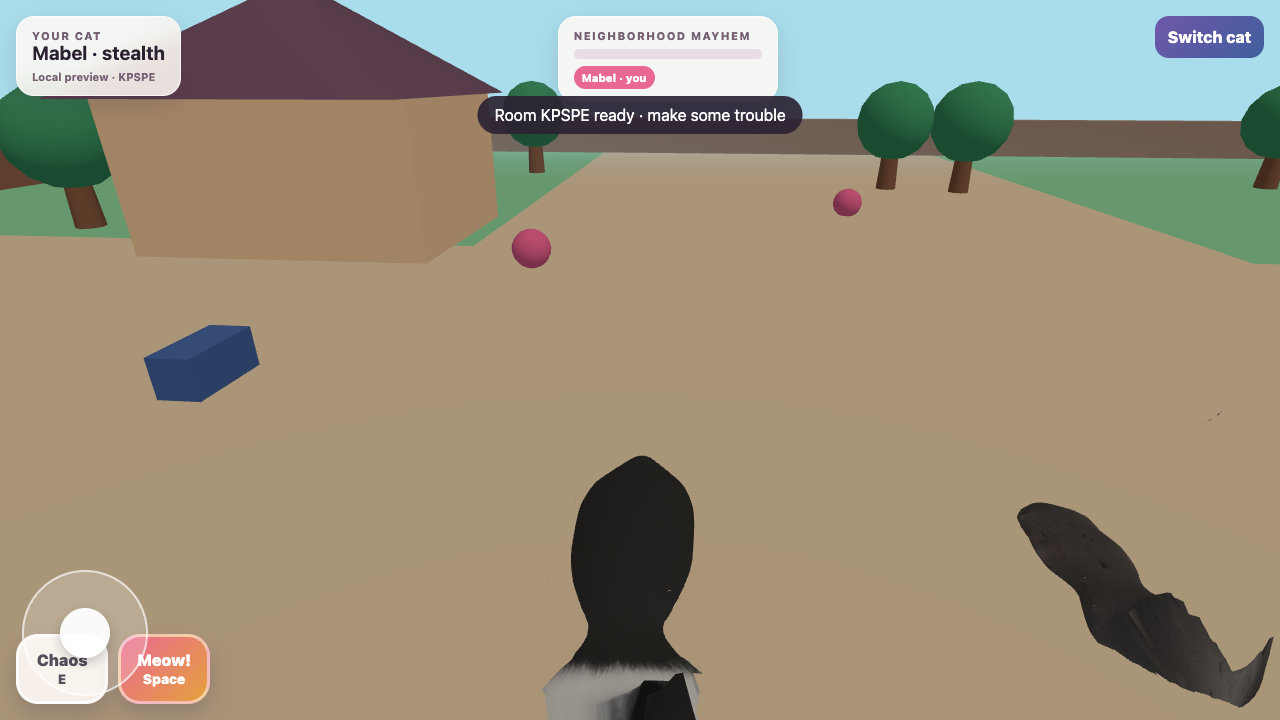
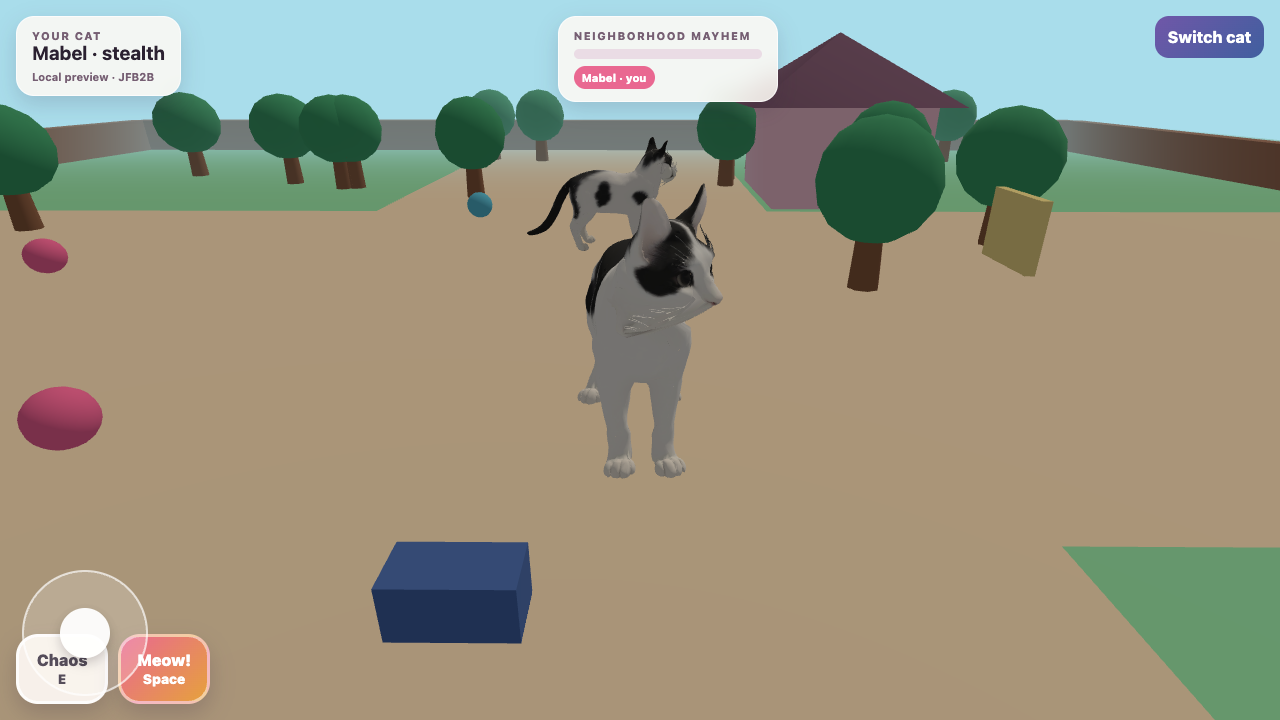
up

diff --git a/index.html b/index.html
@@ -46,20 +46,23 @@ const START_WORLD={yarn:{yarn_0:{x:-7,z:-5},yarn_1:{x:8,z:-3},yarn_2:{x:12,z:8},
 const ui={lobby:document.getElementById('lobby-screen'),loading:document.getElementById('loading-screen'),label:document.getElementById('loading-label'),note:document.getElementById('setup-note'),error:document.getElementById('lobby-error'),room:document.getElementById('room-code-input'),hud:document.getElementById('hud'),cat:document.getElementById('cat-name'),connection:document.getElementById('connection-badge'),players:document.getElementById('player-list'),meter:document.getElementById('mayhem-meter'),switch:document.getElementById('switch-cat-btn'),interact:document.getElementById('interact-btn'),meow:document.getElementById('meow-btn'),zone:document.getElementById('joystick-zone'),knob:document.getElementById('joystick-knob'),message:document.getElementById('message-box')};
 const canvas=document.getElementById('game-canvas'),renderer=new THREE.WebGLRenderer({canvas,antialias:true}),scene=new THREE.Scene(),camera=new THREE.PerspectiveCamera(58,1,.1,100),loader=new GLTFLoader();
 renderer.setPixelRatio(Math.min(devicePixelRatio||1,2));renderer.shadowMap.enabled=true;renderer.shadowMap.type=THREE.PCFSoftShadowMap;scene.background=new THREE.Color(0xa9ddeb);scene.fog=new THREE.Fog(0xa9ddeb,24,64);
-let sourceMesh=null,sourceClips=[],animationReady=false,animationVerification={total:0,cats:{}},currentTargetMesh=null,firebaseApi=null,roomRef=null,roomUnsubscribe=null,eventUnsubscribe=null,messageTimer=null,gameTime=0,lastFrameTime=performance.now(),isMeowing=false,isInteracting=false,isDragging=false;
+let sourceMesh=null,sourceClips=[],animationReady=false,animationVerification={total:0,cats:{}},firebaseApi=null,roomRef=null,roomUnsubscribe=null,eventUnsubscribe=null,messageTimer=null,gameTime=0,lastFrameTime=performance.now(),isMeowing=false,isInteracting=false,isDragging=false;
 const cats={},collectibles={},collecting=new Set(),worldMeshes={},keys={up:false,down:false,left:false,right:false},joy={x:0,y:0};
 const state={mode:'lobby',started:false,connection:'local',roomCode:'',playerId:'',currentCatId:'mabel',players:{},world:JSON.parse(JSON.stringify(START_WORLD)),mayhem:0,lastPublishedAt:0,seenEvents:new Set(),local:{x:-4,z:2,rotation:0,moving:false,action:'idle'}};
 const copyWorld=()=>JSON.parse(JSON.stringify(START_WORLD));
 const roomCode=()=>Array.from({length:5},()=> 'ABCDEFGHJKLMNPQRSTUVWXYZ23456789'[Math.floor(Math.random()*30)]).join('');
 const findMesh=root=>{let result=null;root.traverse(n=>{if(!result&&n.isSkinnedMesh)result=n});return result};
-const findBone=(mesh,name)=>mesh?.skeleton?.bones.find(b=>b.name===name)||null;
+const findBone=(mesh,name)=>mesh?.skeleton?.bones.find(b=>b.name===name)||mesh?.skeleton?.bones.find(b=>b.name.replace(/\./g,'')===name.replace(/\./g,''))||null;
 const sourceHas=name=>Boolean(sourceMesh?.skeleton?.bones.some(b=>b.name===name));
 const angleDiff=(a,b)=>{let d=b-a;while(d<-Math.PI)d+=Math.PI*2;while(d>Math.PI)d-=Math.PI*2;return d};
 function chain(mesh,start,allowed){const root=findBone(mesh,start),result=[];let current=root;while(current){result.push(current);current=(current.children||[]).find(n=>n.isBone&&allowed(n.name))||null}return result}
-function addMap(map,target,source){if(findBone(currentTargetMesh,target)&&sourceHas(source))map[target]=source}
-function retargetMap(mesh){currentTargetMesh=mesh;const map={};const targetSpine=chain(mesh,'spine',n=>/^spine(?:\\.\\d+)?$/.test(n));const sourceSpine=['RigSpine1_010','RigSpine2_011','RigSpine3_012','RigChest_013','RigNeck1_00','RigNeck2_014','RigNeck3_015','RigNeck4_016','RigHead_017'];targetSpine.slice(1).forEach((b,i)=>addMap(map,b.name,sourceSpine[Math.min(sourceSpine.length-1,Math.floor(i*sourceSpine.length/Math.max(1,targetSpine.length-1)))]));[['L',['shoulder.L','upper_arm.L','forearm.L','hand.L','f_toe.L'],['RigLFLegCollarbone_033','RigLFLeg1_034','RigLFLeg2_035','RigLFLeg3_036','RigLFLegAnkle_037']],['R',['shoulder.R','upper_arm.R','forearm.R','hand.R','f_toe.R'],['RigRFLegCollarbone_047','RigRFLeg1_048','RigRFLeg2_049','RigRFLeg3_050','RigRFLegAnkle_051']],['L',['pelvis.L','thigh.L','shin.L','foot.L','r_toe.L'],['RigLBLeg1_02','RigLBLeg2_03','RigLBLeg3_04','RigLBLegAnkle_05','RigLBLegDigit11_06']],['R',['pelvis.R','thigh.R','shin.R','foot.R','r_toe.R'],['RigRBLeg1_068','RigRBLeg2_069','RigRBLeg3_070','RigRBLegAnkle_071','RigRBLegDigit11_072']]].forEach(([,targets,sources])=>targets.forEach((t,i)=>addMap(map,t,sources[i])));addMap(map,'face','RigHead_017');addMap(map,'face.001','RigHead_017');addMap(map,'jaw','RigJaw1_018');addMap(map,'jaw_master','RigJaw1_018');addMap(map,'ear.L','RigLEar1_023');addMap(map,'ear.R','RigREar1_024');const tail=chain(mesh,'tail.001',n=>/^tail(?:\\.\\d+)?$/.test(n)),sourceTail=['RigTail1_063','RigTail2_064','RigTail3_065','RigTail4_066','RigTail5_067'];tail.forEach((b,i)=>addMap(map,b.name,sourceTail[Math.min(sourceTail.length-1,Math.floor(i*sourceTail.length/Math.max(1,tail.length)))]));currentTargetMesh=null;return map}
-function playAnimation(id,name,force=false){const cat=cats[id];if(!cat?.actions?.[name])return;if(!force&&cat.active===name&&(!ONE_SHOTS.has(name)||gameTime<cat.oneShotUntil))return;const next=cat.actions[name],old=cat.actions[cat.active];if(old&&old!==next)old.fadeOut(.18);next.reset().setEffectiveTimeScale(1).setEffectiveWeight(1).fadeIn(.18).play();cat.active=name;if(id===state.currentCatId)state.local.action=name;if(ONE_SHOTS.has(name))cat.oneShotUntil=gameTime+Math.max(.65,next.getClip().duration)}
-function configureAnimations(cat,mesh){const map=retargetMap(mesh),mixer=new THREE.AnimationMixer(cat.root),actions={};let count=0;Object.entries(CLIPS).forEach(([key,sourceName])=>{const clip=sourceClips.find(c=>c.name===sourceName);if(!clip)return;try{const converted=SkeletonUtils.retargetClip(mesh,sourceMesh,clip,{names:map,hip:'__no_position__',fps:30,preservePosition:true});converted.tracks=converted.tracks.filter(track=>!track.name.endsWith('.position'));converted.tracks.forEach(track=>{if(track.name.startsWith('.'))track.name=mesh.uuid+track.name});converted.name=key;const action=mixer.clipAction(converted);if(ONE_SHOTS.has(key)){action.setLoop(THREE.LoopOnce,1);action.clampWhenFinished=true}actions[key]=action;count++}catch(error){console.warn('Retarget failed',cat.id,key,error)}});mesh.skeleton.pose();mesh.updateMatrixWorld(true);cat.mixer=mixer;cat.actions=actions;cat.active='';cat.oneShotUntil=0;animationVerification.cats[cat.id]=count;animationVerification.total+=count;playAnimation(cat.id,'idle',true)}
+function addMap(map,mesh,target,source){const bone=findBone(mesh,target);if(bone&&sourceHas(source))map[bone.name]=source}
+function retargetMap(mesh){const map={};if(!mesh||!sourceMesh)return map;const targetSpine=chain(mesh,'spine',n=>/^spine(?:\.?\d+)?$/.test(n));const sourceSpine=['RigSpine1_010','RigSpine2_011','RigSpine3_012','RigChest_013','RigNeck1_00','RigNeck2_014','RigNeck3_015','RigNeck4_016','RigHead_017'];targetSpine.slice(1).forEach((b,i)=>addMap(map,mesh,b.name,sourceSpine[Math.min(sourceSpine.length-1,Math.floor(i*sourceSpine.length/Math.max(1,targetSpine.length-1)))]));[['L',['shoulder.L','upper_arm.L','forearm.L','hand.L','f_toe.L'],['RigLFLegCollarbone_033','RigLFLeg1_034','RigLFLeg2_035','RigLFLeg3_036','RigLFLegAnkle_037']],['R',['shoulder.R','upper_arm.R','forearm.R','hand.R','f_toe.R'],['RigRFLegCollarbone_047','RigRFLeg1_048','RigRFLeg2_049','RigRFLeg3_050','RigRFLegAnkle_051']],['L',['pelvis.L','thigh.L','shin.L','foot.L','r_toe.L'],['RigLBLeg1_02','RigLBLeg2_03','RigLBLeg3_04','RigLBLegAnkle_05','RigLBLegDigit11_06']],['R',['pelvis.R','thigh.R','shin.R','foot.R','r_toe.R'],['RigRBLeg1_068','RigRBLeg2_069','RigRBLeg3_070','RigRBLegAnkle_071','RigRBLegDigit11_072']]].forEach(([,targets,sources])=>targets.forEach((t,i)=>addMap(map,mesh,t,sources[i])));addMap(map,mesh,'face','RigHead_017');addMap(map,mesh,'face.001','RigHead_017');addMap(map,mesh,'jaw','RigJaw1_018');addMap(map,mesh,'jaw_master','RigJaw1_018');addMap(map,mesh,'ear.L','RigLEar1_023');addMap(map,mesh,'ear.R','RigREar1_024');const tail=chain(mesh,'tail.001',n=>/^tail(?:\.?\d+)?$/.test(n)),sourceTail=['RigTail1_063','RigTail2_064','RigTail3_065','RigTail4_066','RigTail5_067'];tail.forEach((b,i)=>addMap(map,mesh,b.name,sourceTail[Math.min(sourceTail.length-1,Math.floor(i*sourceTail.length/Math.max(1,tail.length)))]));return map}
+function normalizeTrack(track,targetBones){const match=track.name.match(/bones\[([^\]]+)\]\.(.+)$/);if(!match||!targetBones.has(match[1]))return null;track.name='.bones['+match[1]+'].'+match[2];return track}
+function fallbackKey(name){const value=name.toLowerCase();if(value.includes('idle'))return'idle';if(value.includes('walk'))return'walk';if(value.includes('run'))return'run';if(value.includes('jump'))return'jump';return null}
+function prepareSourceClip(clip){if(!sourceMesh?.skeleton)return null;const boneNames=new Set(sourceMesh.skeleton.bones.map(b=>b.name)),prepared=clip.clone();prepared.tracks=prepared.tracks.filter(track=>{const path=track.name.slice(0,track.name.lastIndexOf('.'));return boneNames.has(path)});return prepared.tracks.length?prepared:null}
+function playAnimation(id,name,force=false){const cat=cats[id];if(!cat)return;const next=cat.actions?.[name]||cat.fallbackActions?.[name]||cat.fallbackAction;if(!next)return;if(!force&&cat.active===name&&(!ONE_SHOTS.has(name)||gameTime<cat.oneShotUntil))return;const old=cat.activeAction;if(old&&old!==next)old.fadeOut(.18);next.reset().setEffectiveTimeScale(1).setEffectiveWeight(1).fadeIn(.18).play();cat.active=name;cat.activeAction=next;cat.activeSource=cat.actions?.[name]?'shared':'fallback';if(id===state.currentCatId)state.local.action=name;if(ONE_SHOTS.has(name))cat.oneShotUntil=gameTime+Math.max(.65,next.getClip().duration)}
+function configureAnimations(cat,mesh,localClips=[]){const actions={},fallbackActions={};let count=0;cat.mixer=mesh?new THREE.AnimationMixer(mesh):null;cat.fallbackMixer=localClips.length?new THREE.AnimationMixer(cat.root):null;localClips.forEach(clip=>{if(!cat.fallbackMixer)return;const action=cat.fallbackMixer.clipAction(clip),key=fallbackKey(clip.name);if(key&&!fallbackActions[key])fallbackActions[key]=action;if(!cat.fallbackAction)cat.fallbackAction=action});const map=retargetMap(mesh),targetBones=new Set(mesh?.skeleton?.bones.map(b=>b.name)||[]);const required=['spine','shoulder.L','shoulder.R','thigh.L','thigh.R'];const rigCompatible=required.filter(name=>findBone(mesh,name)).length>=4&&Object.keys(map).length>=8;cat.mappedBones=Object.keys(map).length;cat.rigCompatible=rigCompatible;if(cat.mixer&&rigCompatible){Object.entries(CLIPS).forEach(([key,sourceName])=>{const clip=sourceClips.find(c=>c.name===sourceName),sourceClip=clip&&prepareSourceClip(clip);if(!sourceClip)return;try{const converted=SkeletonUtils.retargetClip(mesh,sourceMesh,sourceClip,{names:map,hip:'__no_position__',fps:30,preservePosition:true});converted.tracks=converted.tracks.map(track=>normalizeTrack(track,targetBones)).filter(Boolean).filter(track=>track.name!=='.bones[spine].position');if(converted.tracks.length<4)return;converted.name=key;const action=cat.mixer.clipAction(converted);if(ONE_SHOTS.has(key)){action.setLoop(THREE.LoopOnce,1);action.clampWhenFinished=true}actions[key]=action;count++}catch(error){console.warn('Retarget skipped',cat.id,key,error)}})}cat.actions=actions;cat.fallbackActions=fallbackActions;cat.active='';cat.activeAction=null;cat.activeSource=cat.actions.idle?'shared':cat.fallbackAction?'fallback':'static';cat.oneShotUntil=0;animationVerification.cats[cat.id]=count;animationVerification.total+=count;playAnimation(cat.id,'idle',true)}
 function createEnvironment(){scene.add(new THREE.AmbientLight(0xffffff,.68));const sun=new THREE.DirectionalLight(0xfff6e7,1.05);sun.position.set(8,18,9);sun.castShadow=true;sun.shadow.mapSize.set(1024,1024);scene.add(sun);const floor=new THREE.Mesh(new THREE.PlaneGeometry(100,100),new THREE.MeshStandardMaterial({color:0x8bd29d,roughness:1}));floor.rotation.x=-Math.PI/2;floor.receiveShadow=true;scene.add(floor);const path=new THREE.Mesh(new THREE.PlaneGeometry(18,100),new THREE.MeshStandardMaterial({color:0xe7cfae}));path.rotation.x=-Math.PI/2;path.position.y=.006;scene.add(path);const cross=new THREE.Mesh(new THREE.PlaneGeometry(100,14),new THREE.MeshStandardMaterial({color:0xe7cfae}));cross.rotation.x=-Math.PI/2;cross.position.y=.007;scene.add(cross);const fenceMat=new THREE.MeshStandardMaterial({color:0x9a6a52});[[0,-30,60,1],[0,30,60,1],[-30,0,1,60],[30,0,1,60]].forEach(([x,z,sx,sz])=>{const f=new THREE.Mesh(new THREE.BoxGeometry(sx,1.8,sz),fenceMat);f.position.set(x,.9,z);f.castShadow=true;scene.add(f)});const random=n=>{const v=Math.sin(n*91.17)*43758.5453;return v-Math.floor(v)};for(let i=0;i<24;i++)createTree((random(i+2)-.5)*50,(random(i+40)-.5)*50);createHouse(-13,-8,0xffd5a7);createHouse(13,10,0xf7c6d7);createHouse(-14,13,0xb9d9f2);Object.entries(START_WORLD.yarn).forEach(([id,item])=>createYarn(id,item));createMischief('mailbox',START_WORLD.objects.mailbox,0x4868a8,.6,.6,1.2);createMischief('sprinkler',START_WORLD.objects.sprinkler,0x75a9bb,.45,.25,.45);createMischief('window',START_WORLD.objects.window,0xefd98c,2.2,1.8,.25);createMischief('nap',START_WORLD.objects.nap,0x9b7bb7,2.5,.18,2.5)}
 function createTree(x,z){const g=new THREE.Group(),trunk=new THREE.Mesh(new THREE.CylinderGeometry(.28,.36,1.8,8),new THREE.MeshStandardMaterial({color:0x8a5d42})),leaves=new THREE.Mesh(new THREE.SphereGeometry(1.35,12,8),new THREE.MeshStandardMaterial({color:0x3e9a68}));trunk.position.y=.9;leaves.position.y=2.4;trunk.castShadow=leaves.castShadow=true;g.add(trunk,leaves);g.position.set(x,0,z);scene.add(g)}
 function createHouse(x,z,color){const g=new THREE.Group(),body=new THREE.Mesh(new THREE.BoxGeometry(7,3.5,5.5),new THREE.MeshStandardMaterial({color})),roof=new THREE.Mesh(new THREE.ConeGeometry(5.2,2.5,4),new THREE.MeshStandardMaterial({color:0x76516a}));body.position.y=1.75;roof.position.y=4.7;roof.rotation.y=Math.PI/4;body.castShadow=roof.castShadow=true;g.add(body,roof);g.position.set(x,0,z);scene.add(g)}
@@ -68,7 +71,8 @@ function createMischief(id,item,color,sx,sy,sz){const mesh=new THREE.Mesh(new TH
 function fitCat(root){const box=new THREE.Box3().setFromObject(root),height=Math.max(.01,box.max.y-box.min.y);root.scale.setScalar(.95/height)}
 function snapCamera(){const cat=cats[state.currentCatId];if(!cat)return;camera.position.copy(cat.root.position.clone().add(new THREE.Vector3(0,5.5,11)));camera.lookAt(cat.root.position.clone().add(new THREE.Vector3(0,1,0)))}
 function loadGLTF(url){return new Promise((resolve,reject)=>loader.load(url,resolve,undefined,reject))}
-async function loadAssets(){createEnvironment();ui.label.textContent='Loading the shared cat motion library…';const source=await loadGLTF(ANIMATION_FILE);sourceClips=source.animations||[];sourceMesh=findMesh(source.scene);if(!sourceMesh||!sourceClips.length)throw new Error('The animation library has no skinned cat clips.');source.scene.visible=false;scene.add(source.scene);ui.label.textContent='Retargeting Mabel, Margo, and Moxie…';for(const id of CAT_IDS){const gltf=await loadGLTF(CAT_DEFS[id].file),root=gltf.scene;fitCat(root);root.position.set(CAT_DEFS[id].start[0],0,CAT_DEFS[id].start[1]);root.traverse(n=>{if(n.isMesh){n.castShadow=true;n.receiveShadow=true}});scene.add(root);const mesh=findMesh(root),cat={id,root,targetMesh:mesh,mixer:null,actions:{},active:'',moving:false,oneShotUntil:0};cats[id]=cat;configureAnimations(cat,mesh)}animationReady=true;snapCamera();ui.note.textContent='Animation library ready · '+sourceClips.length+' source clips · '+animationVerification.total+' retargeted actions verified';ui.loading.classList.add('hidden')}
+function createFallbackCat(colorHex){const group=new THREE.Group(),mat=new THREE.MeshStandardMaterial({color:colorHex,roughness:.7}),body=new THREE.Mesh(new THREE.BoxGeometry(.8,.6,1.4),mat),head=new THREE.Mesh(new THREE.BoxGeometry(.6,.6,.6),mat),ear=new THREE.ConeGeometry(.15,.3,4),tail=new THREE.Mesh(new THREE.CylinderGeometry(.08,.08,.8),mat);body.position.y=.5;head.position.set(0,.9,.8);const left=new THREE.Mesh(ear,mat),right=new THREE.Mesh(ear,mat);left.position.set(.2,1.3,.9);right.position.set(-.2,1.3,.9);tail.position.set(0,.7,-.8);tail.rotation.x=-Math.PI/4;group.add(body,head,left,right,tail);group.traverse(node=>{if(node.isMesh)node.castShadow=node.receiveShadow=true});return group}
+async function loadAssets(){createEnvironment();ui.label.textContent='Loading the shared cat motion library…';try{const source=await loadGLTF(ANIMATION_FILE);sourceClips=source.animations||[];sourceMesh=findMesh(source.scene);if(sourceMesh&&sourceClips.length){source.scene.visible=false;scene.add(source.scene)}}catch(error){console.warn('Shared animation library unavailable; keeping cat fallbacks.',error);sourceMesh=null;sourceClips=[]}ui.label.textContent='Retargeting Mabel, Margo, and Moxie…';const fallbackColors={mabel:0xc47657,margo:0x636b80,moxie:0x8d9a89};for(const id of CAT_IDS){let root,localClips=[];try{const gltf=await loadGLTF(CAT_DEFS[id].file);root=gltf.scene;localClips=gltf.animations||[]}catch(error){console.warn('Could not load '+CAT_DEFS[id].file+'; using the visual fallback.',error);root=createFallbackCat(fallbackColors[id])}fitCat(root);root.position.set(CAT_DEFS[id].start[0],0,CAT_DEFS[id].start[1]);root.traverse(n=>{if(n.isMesh){n.castShadow=true;n.receiveShadow=true}});scene.add(root);const mesh=findMesh(root),cat={id,root,targetMesh:mesh,mixer:null,fallbackMixer:null,actions:{},fallbackActions:{},fallbackAction:null,active:'',activeAction:null,activeSource:'static',moving:false,oneShotUntil:0};cats[id]=cat;configureAnimations(cat,mesh,localClips)}animationReady=Boolean(sourceMesh&&sourceClips.length);snapCamera();ui.note.textContent=animationReady?'Animation library ready · '+sourceClips.length+' source clips · '+animationVerification.total+' shared actions verified':'Shared library unavailable · each cat is using its fallback behavior';ui.loading.classList.add('hidden')}
 function showMessage(text){ui.message.textContent=text;ui.message.classList.add('visible');clearTimeout(messageTimer);messageTimer=setTimeout(()=>ui.message.classList.remove('visible'),2200)}
 function onlinePlayers(){return Object.values(state.players).filter(p=>p&&p.online!==false)}
 function firstOpenCat(players){const claimed=new Set(players.map(p=>p.catId));return CAT_IDS.find(id=>!claimed.has(id))||null}
@@ -93,10 +97,10 @@ async function meow(){if(isMeowing)return;isMeowing=true;playAnimation(state.cur
 function startSession(){state.started=true;state.mode='play';snapCamera();ui.lobby.classList.add('hidden');ui.hud.classList.add('active');updateHUD();showMessage('Room '+state.roomCode+' ready · make some trouble')}
 function applyStart(id){state.currentCatId=id;state.local={x:CAT_DEFS[id].start[0],z:CAT_DEFS[id].start[1],rotation:0,moving:false,action:'idle'}}
 async function enter(kind){ui.error.textContent='';try{if(kind==='create'){applyStart('mabel');if(firebaseApi)await createRoom(true);else await createRoom(false)}else if(kind==='local'){applyStart('mabel');await createRoom(false)}else await joinRoom(ui.room.value,Boolean(firebaseApi))}catch(error){ui.error.textContent=error.message||'Unable to open that room.'}}
-function updateGame(delta){if(!state.started)return;gameTime+=delta;const cat=cats[state.currentCatId];if(!cat)return;const x=Math.abs(joy.x)>.08?joy.x:(keys.right?1:0)-(keys.left?1:0),y=Math.abs(joy.y)>.08?joy.y:(keys.down?1:0)-(keys.up?1:0),magnitude=Math.min(1,Math.hypot(x,y));cat.moving=magnitude>.08&&!isMeowing&&!isInteracting;if(cat.moving){const target=Math.atan2(-x,-y);cat.root.rotation.y+=angleDiff(cat.root.rotation.y,target)*Math.min(1,delta*9);const speed=state.currentCatId==='margo'?5.6:state.currentCatId==='mabel'?4.5:4.9;cat.root.translateZ(speed*magnitude*delta);cat.root.position.x=THREE.MathUtils.clamp(cat.root.position.x,-27,27);cat.root.position.z=THREE.MathUtils.clamp(cat.root.position.z,-27,27);playAnimation(cat.id,magnitude>.78?'run':'walk')}else if(!isMeowing&&!isInteracting&&!cat.oneShotUntil)playAnimation(cat.id,'idle');Object.values(cats).forEach(model=>{if(model.mixer)model.mixer.update(delta);if(model.oneShotUntil&&gameTime>=model.oneShotUntil){model.oneShotUntil=0;playAnimation(model.id,model.moving?'walk':'idle')}});Object.entries(collectibles).forEach(([id,mesh])=>{if(mesh.visible){mesh.rotation.y+=delta*2;mesh.position.y=mesh.userData.baseY+Math.sin(gameTime*3+Number(id.slice(-1)))*.06}});onlinePlayers().filter(p=>p.playerId!==state.playerId).forEach(applyRemote);const offset=new THREE.Vector3(0,4.5,8).applyAxisAngle(new THREE.Vector3(0,1,0),cat.root.rotation.y);camera.position.lerp(cat.root.position.clone().add(offset),Math.min(1,delta*5));camera.lookAt(cat.root.position.clone().add(new THREE.Vector3(0,1,0)));collectNearby();publish()}
+function updateGame(delta){if(!state.started)return;gameTime+=delta;const cat=cats[state.currentCatId];if(!cat)return;const x=Math.abs(joy.x)>.08?joy.x:(keys.right?1:0)-(keys.left?1:0),y=Math.abs(joy.y)>.08?joy.y:(keys.down?1:0)-(keys.up?1:0),magnitude=Math.min(1,Math.hypot(x,y));cat.moving=magnitude>.08&&!isMeowing&&!isInteracting;if(cat.moving){const target=Math.atan2(-x,-y);cat.root.rotation.y+=angleDiff(cat.root.rotation.y,target)*Math.min(1,delta*9);const speed=state.currentCatId==='margo'?5.6:state.currentCatId==='mabel'?4.5:4.9;cat.root.translateZ(speed*magnitude*delta);cat.root.position.x=THREE.MathUtils.clamp(cat.root.position.x,-27,27);cat.root.position.z=THREE.MathUtils.clamp(cat.root.position.z,-27,27);playAnimation(cat.id,magnitude>.78?'run':'walk')}else if(!isMeowing&&!isInteracting&&!cat.oneShotUntil)playAnimation(cat.id,'idle');Object.values(cats).forEach(model=>{if(model.mixer)model.mixer.update(delta);if(model.fallbackMixer)model.fallbackMixer.update(delta);if(model.oneShotUntil&&gameTime>=model.oneShotUntil){model.oneShotUntil=0;playAnimation(model.id,model.moving?'walk':'idle')}});Object.entries(collectibles).forEach(([id,mesh])=>{if(mesh.visible){mesh.rotation.y+=delta*2;mesh.position.y=mesh.userData.baseY+Math.sin(gameTime*3+Number(id.slice(-1)))*.06}});onlinePlayers().filter(p=>p.playerId!==state.playerId).forEach(applyRemote);const offset=new THREE.Vector3(0,4.5,8).applyAxisAngle(new THREE.Vector3(0,1,0),cat.root.rotation.y);camera.position.lerp(cat.root.position.clone().add(offset),Math.min(1,delta*5));camera.lookAt(cat.root.position.clone().add(new THREE.Vector3(0,1,0)));collectNearby();publish()}
 function render(){renderer.render(scene,camera)}function frame(){const now=performance.now(),delta=Math.min(.05,Math.max(0,(now-lastFrameTime)/1000));lastFrameTime=now;updateGame(delta);render();requestAnimationFrame(frame)}
 window.advanceTime=ms=>{for(let i=0,steps=Math.max(1,Math.round(ms/(1000/60)));i<steps;i++)updateGame(1/60);render()};
-window.render_game_to_text=()=>JSON.stringify({coordinateSystem:'x east/west, y up, z north/south; camera follows local cat',mode:state.mode,room:state.roomCode||null,connection:state.connection,currentCat:state.currentCatId,animationSource:ANIMATION_FILE,animationReady,retargetedActions:animationVerification.cats,animationMixerRoots:Object.fromEntries(Object.entries(cats).map(([id,cat])=>[id,{root:cat.mixer?._root?.name||null,rootIsSkinned:Boolean(cat.mixer?._root?.isSkinnedMesh),tracks:Object.values(cat.actions||{})[0]?.getClip().tracks[0]?.name||null}])),latestConsoleError,players:onlinePlayers().map(p=>({id:p.playerId,cat:p.catId,x:Number(p.x||0).toFixed(2),z:Number(p.z||0).toFixed(2),action:p.action||'idle',online:p.online!==false})),mayhem:state.mayhem,yarnRemaining:Object.values(state.world.yarn||{}).filter(i=>!i.collected).length,objectsTriggered:Object.values(state.world.objects||{}).filter(i=>i.triggered).length});
+window.render_game_to_text=()=>JSON.stringify({coordinateSystem:'x east/west, y up, z north/south; camera follows local cat',mode:state.mode,room:state.roomCode||null,connection:state.connection,currentCat:state.currentCatId,animationSource:ANIMATION_FILE,animationReady,retargetedActions:animationVerification.cats,animationMixerRoots:Object.fromEntries(Object.entries(cats).map(([id,cat])=>[id,{root:cat.mixer?._root?.name||null,rootIsSkinned:Boolean(cat.mixer?._root?.isSkinnedMesh),tracks:Object.values(cat.actions||{})[0]?.getClip().tracks[0]?.name||null,sharedActions:Object.keys(cat.actions||{}).length,fallbackActions:Object.keys(cat.fallbackActions||{}).length,mappedBones:cat.mappedBones||0,rigCompatible:Boolean(cat.rigCompatible),targetCore:['spine','shoulder.L','shoulder.R','thigh.L','thigh.R'].filter(name=>findBone(cat.targetMesh,name)?.name||null),boneSample:cat.targetMesh?.skeleton?.bones.slice(0,18).map(b=>b.name)||[],activeSource:cat.activeSource||'static'}])),latestConsoleError,players:onlinePlayers().map(p=>({id:p.playerId,cat:p.catId,x:Number(p.x||0).toFixed(2),z:Number(p.z||0).toFixed(2),action:p.action||'idle',online:p.online!==false})),mayhem:state.mayhem,yarnRemaining:Object.values(state.world.yarn||{}).filter(i=>!i.collected).length,objectsTriggered:Object.values(state.world.objects||{}).filter(i=>i.triggered).length});
 function setKey(code,value){if(code==='ArrowUp'||code==='KeyW')keys.up=value;if(code==='ArrowDown'||code==='KeyS')keys.down=value;if(code==='ArrowLeft'||code==='KeyA')keys.left=value;if(code==='ArrowRight'||code==='KeyD')keys.right=value}
 addEventListener('keydown',e=>{setKey(e.code,true);if(e.code==='Space'){e.preventDefault();meow()}if(e.code==='KeyE'){e.preventDefault();interact()}if(e.code==='KeyF'){if(!document.fullscreenElement)document.documentElement.requestFullscreen?.();else document.exitFullscreen?.()}});addEventListener('keyup',e=>setKey(e.code,false));
 function joystickMove(e){if(!isDragging)return;e.preventDefault();const p=e.touches?.[0]||e,r=ui.zone.getBoundingClientRect(),radius=r.width/2-ui.knob.offsetWidth/2;let dx=p.clientX-(r.left+r.width/2),dy=p.clientY-(r.top+r.height/2),d=Math.hypot(dx,dy);if(d>radius){dx=dx/d*radius;dy=dy/d*radius}ui.knob.style.transform='translate('+dx+'px,'+dy+'px)';joy.x=dx/radius;joy.y=dy/radius}

diff --git a/progress.md b/progress.md
@@ -9,3 +9,4 @@ Original prompt: PLEASE IMPLEMENT THIS PLAN: Whisker District: Three-Cat Multipl
 - Browser validation: syntax and diff checks pass; local Playwright captures show no console errors, all three cats visible, 13 retargeted actions per cat, movement/jump state updates, and Mabel-to-Margo switching. A live Firebase browser check created a room in Firebase with Mabel assigned and no console errors.
 - TODO: test two or three real devices for full production proof; multi-device room lifecycle remains unverified in this workspace.
 - Final handoff capture: local preview reached play mode, moved the player, played jump, switched to Margo, and reported no browser console errors.
+- Animation integration follow-up: verified the committed source GLB has 170 clips and the three target rigs have compatible named skeletons but no local clips. Replaced broad retarget binding with imported-bone-name aliasing, source-bone-only clips, target-SkinnedMesh mixer roots, and per-cat shared/local/static fallback selection. Browser proof on 2026-08-18: Mabel idle used shared actions, ArrowRight moved and selected run, release returned to idle, Margo switch stayed shared, and app console errors were empty. Final capture: output/web-game-animation-final.
